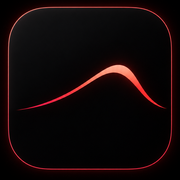
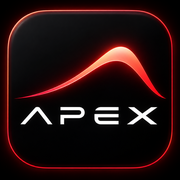
Refactor code structure for improved readability and maintainability

diff --git a/apps/web/components/ui/dashboard-shell.tsx b/apps/web/components/ui/dashboard-shell.tsx
@@ -61,8 +61,10 @@ function RailButton({
 export function DashboardShell({ children }: { children?: ReactNode }) {
   return (
     <div className="flex h-screen flex-col bg-[var(--color-surface)] text-[var(--color-text)]">
-      <header className="flex h-14 shrink-0 items-center gap-3 px-3">
-        <img src="/brand/mini-ico.png" alt="Apex Bot" className="mx-1 h-8 w-8 rounded-lg" />
+      <header className="flex h-14 shrink-0 items-center gap-3 pr-3">
+        <div className="-mr-3 flex h-14 w-16 shrink-0 items-center justify-center">
+          <img src="/brand/mini-logo.png" alt="Apex Bot" className="block h-11 w-11 rounded-xl" />
+        </div>
 
         <div className={`${pill} max-md:hidden`}>
           <CircleDollarSign className="h-4 w-4 text-[var(--color-muted)]" aria-hidden />
